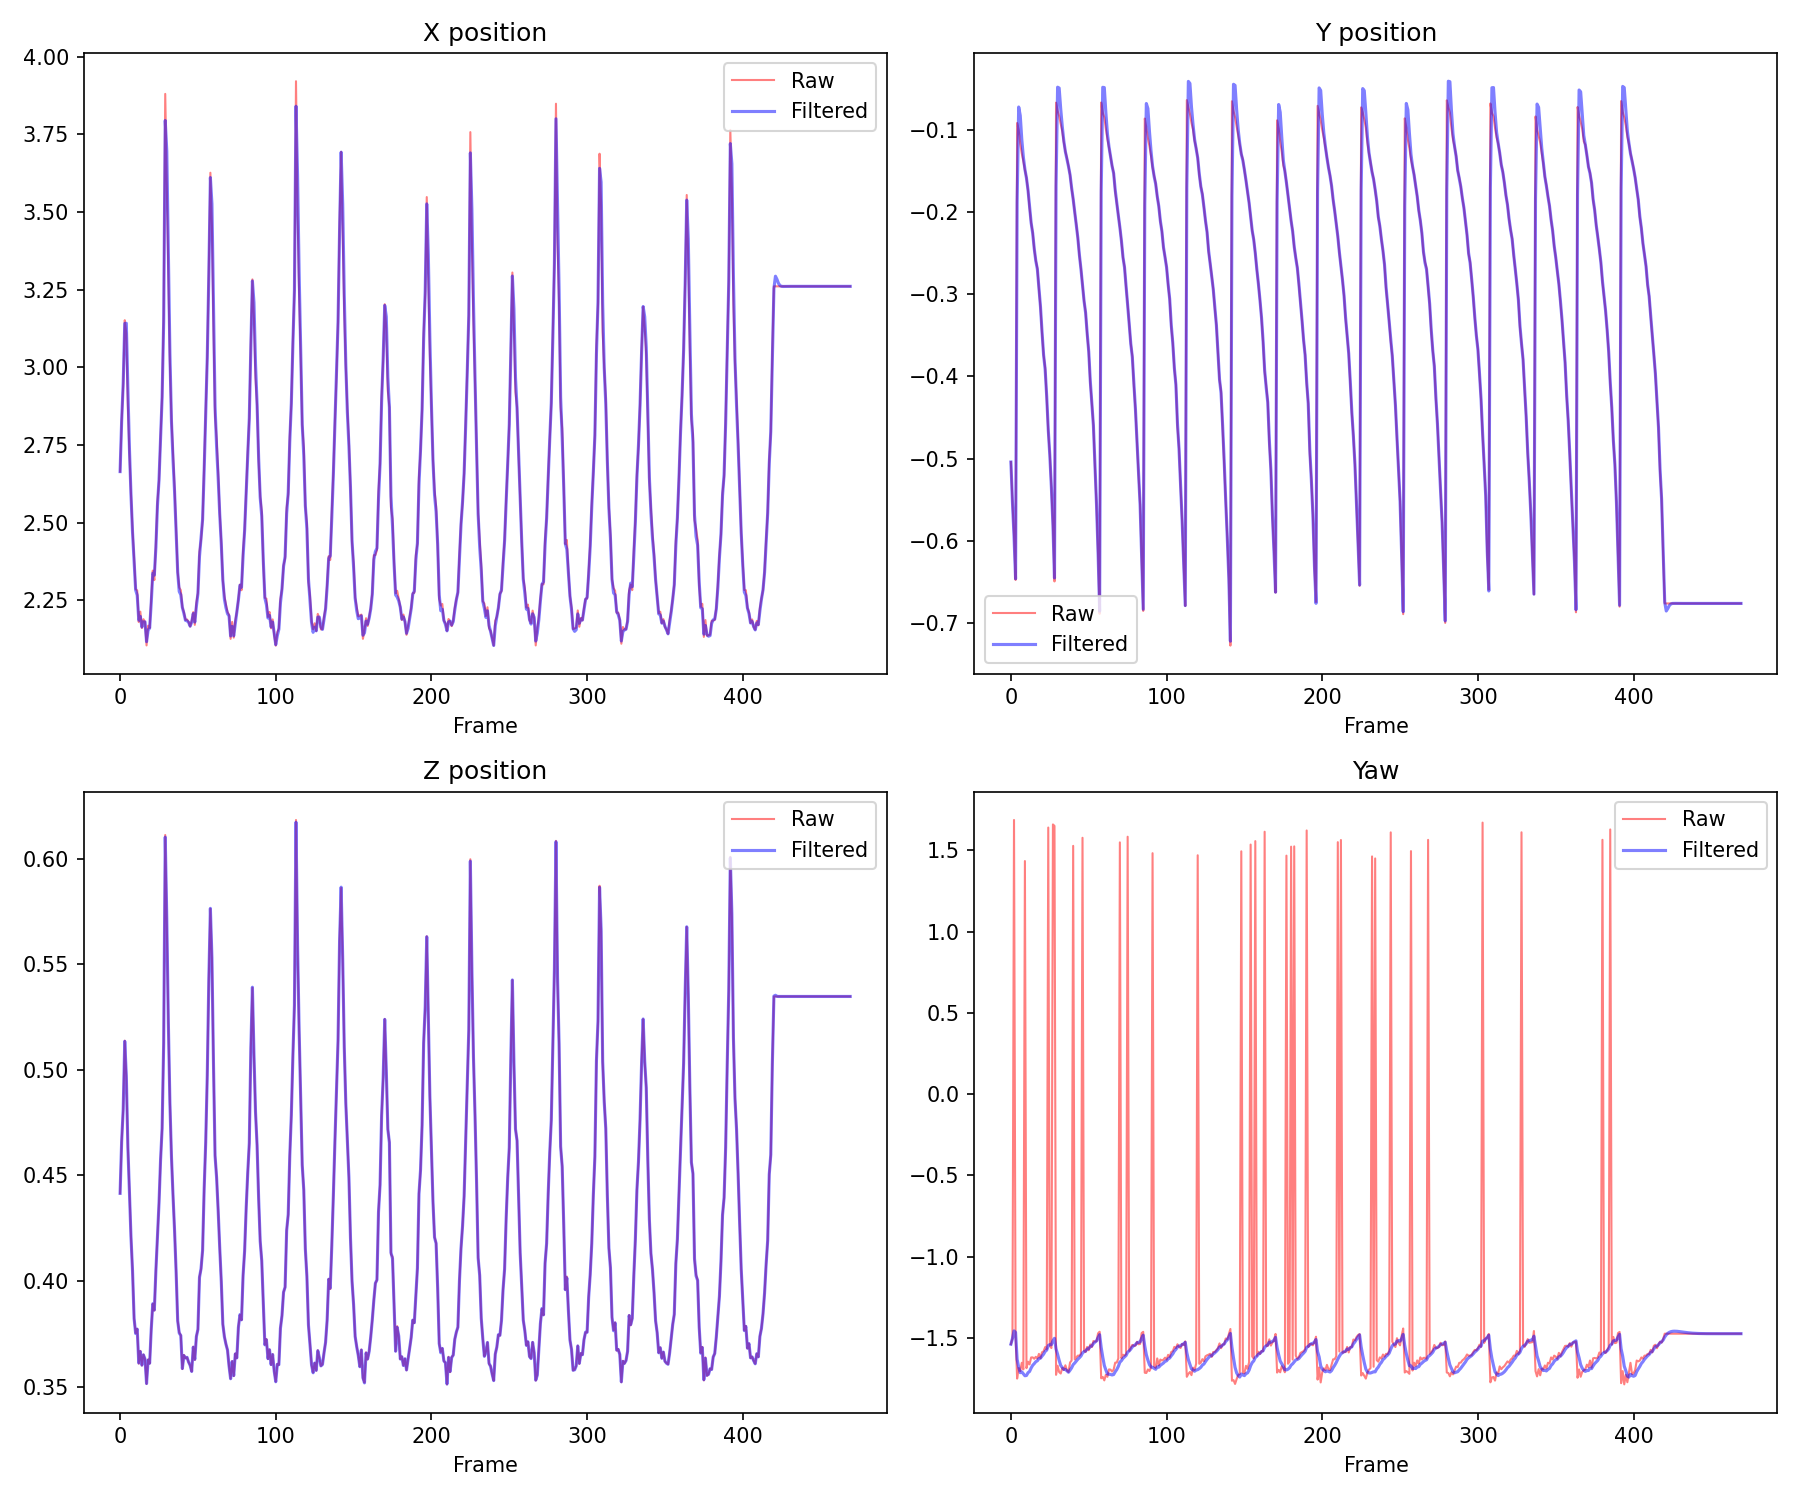
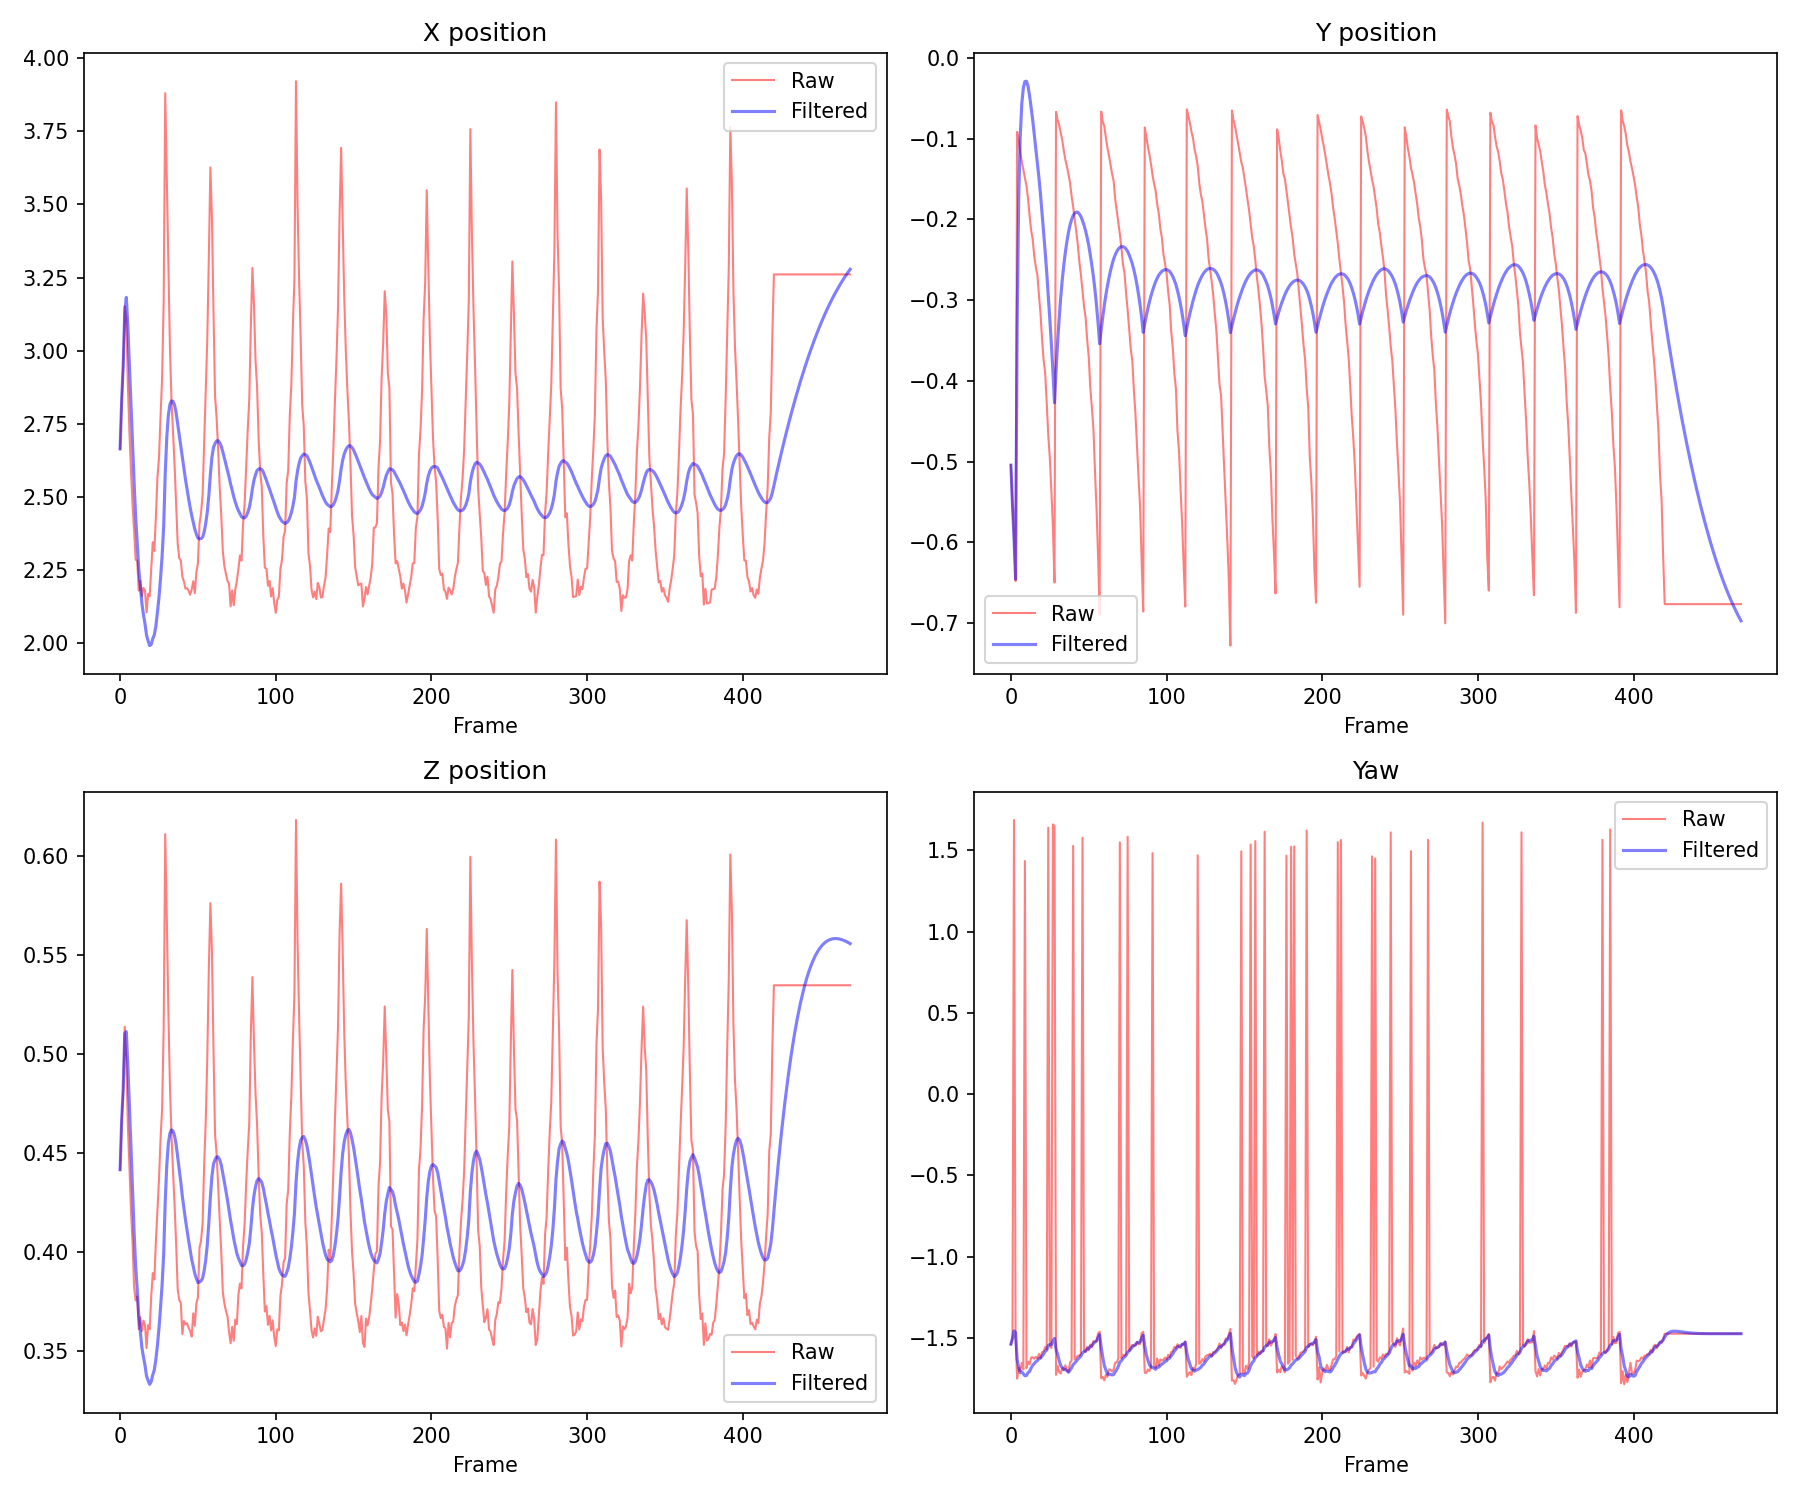
adjust XYZ

diff --git a/扩展卡尔曼滤波器/work6.cpp b/扩展卡尔曼滤波器/work6.cpp
@@ -58,13 +58,13 @@ int main()
 
   Eigen::MatrixXd Q(8, 8);
   Q.setZero();
-  Q(0, 0) = 0.002;
-  Q(1, 1) = 0.002;
-  Q(2, 2) = 0.0001;
+  Q(0, 0) = 0.000000001;
+  Q(1, 1) = 0.000000001;
+  Q(2, 2) = 0.000000001;
   Q(3, 3) = 0.0002;
-  Q(4, 4) = 0.005;
-  Q(5, 5) = 0.005;
-  Q(6, 6) = 0.005;
+  Q(4, 4) = 0.000000001;
+  Q(5, 5) = 0.000000001;
+  Q(6, 6) = 0.000000001;
   Q(7, 7) = 0.00001;
 
   Eigen::MatrixXd R(4, 4);
